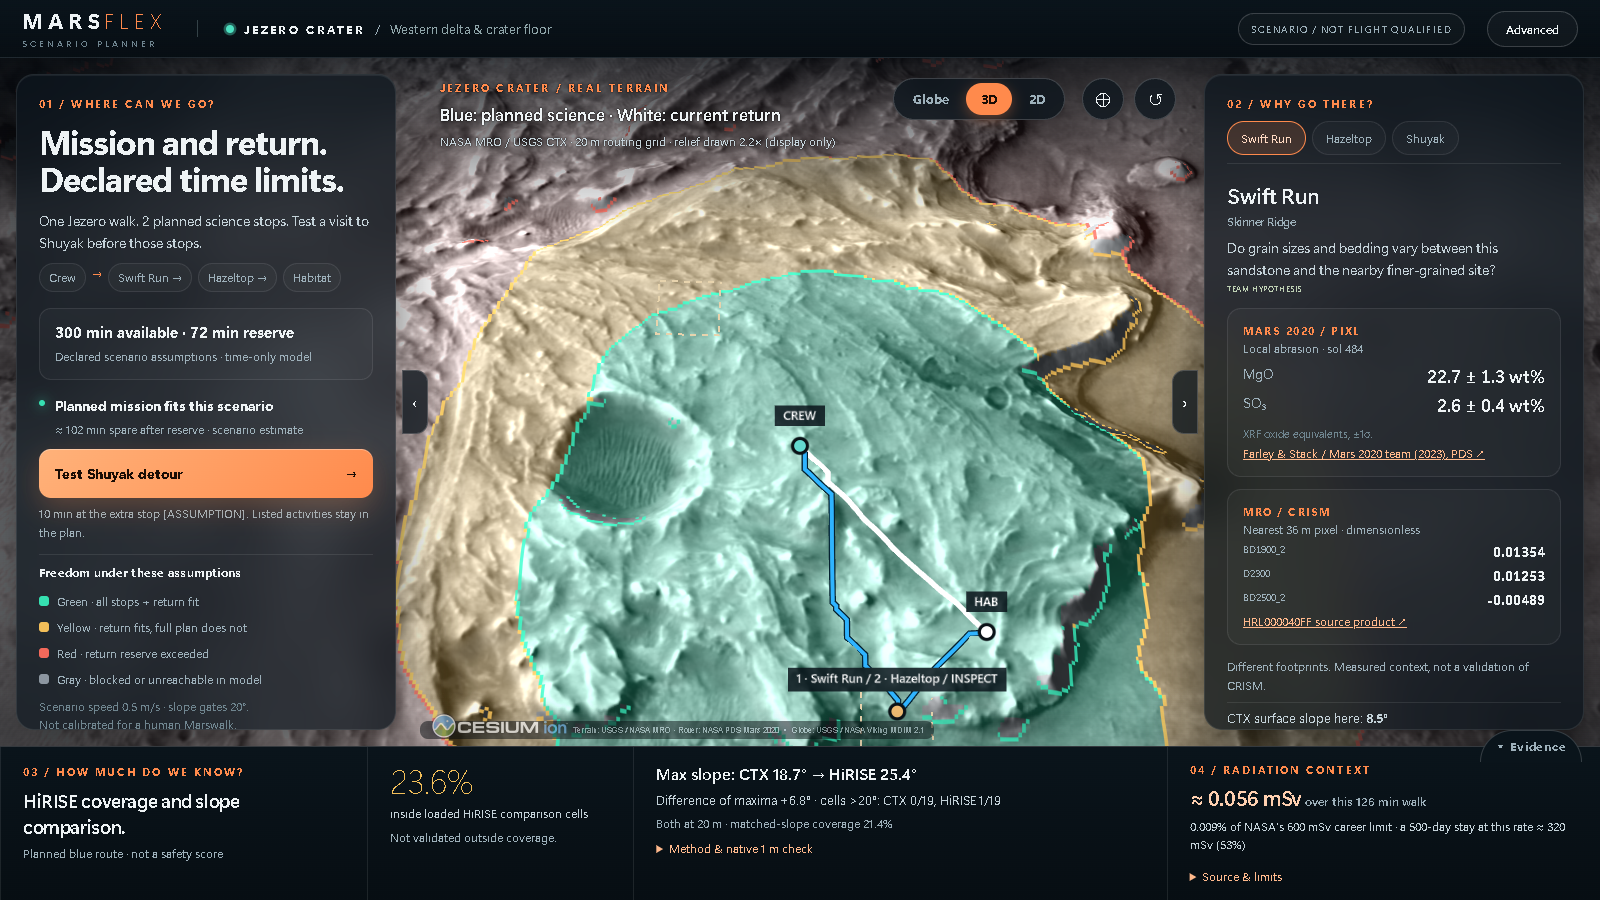
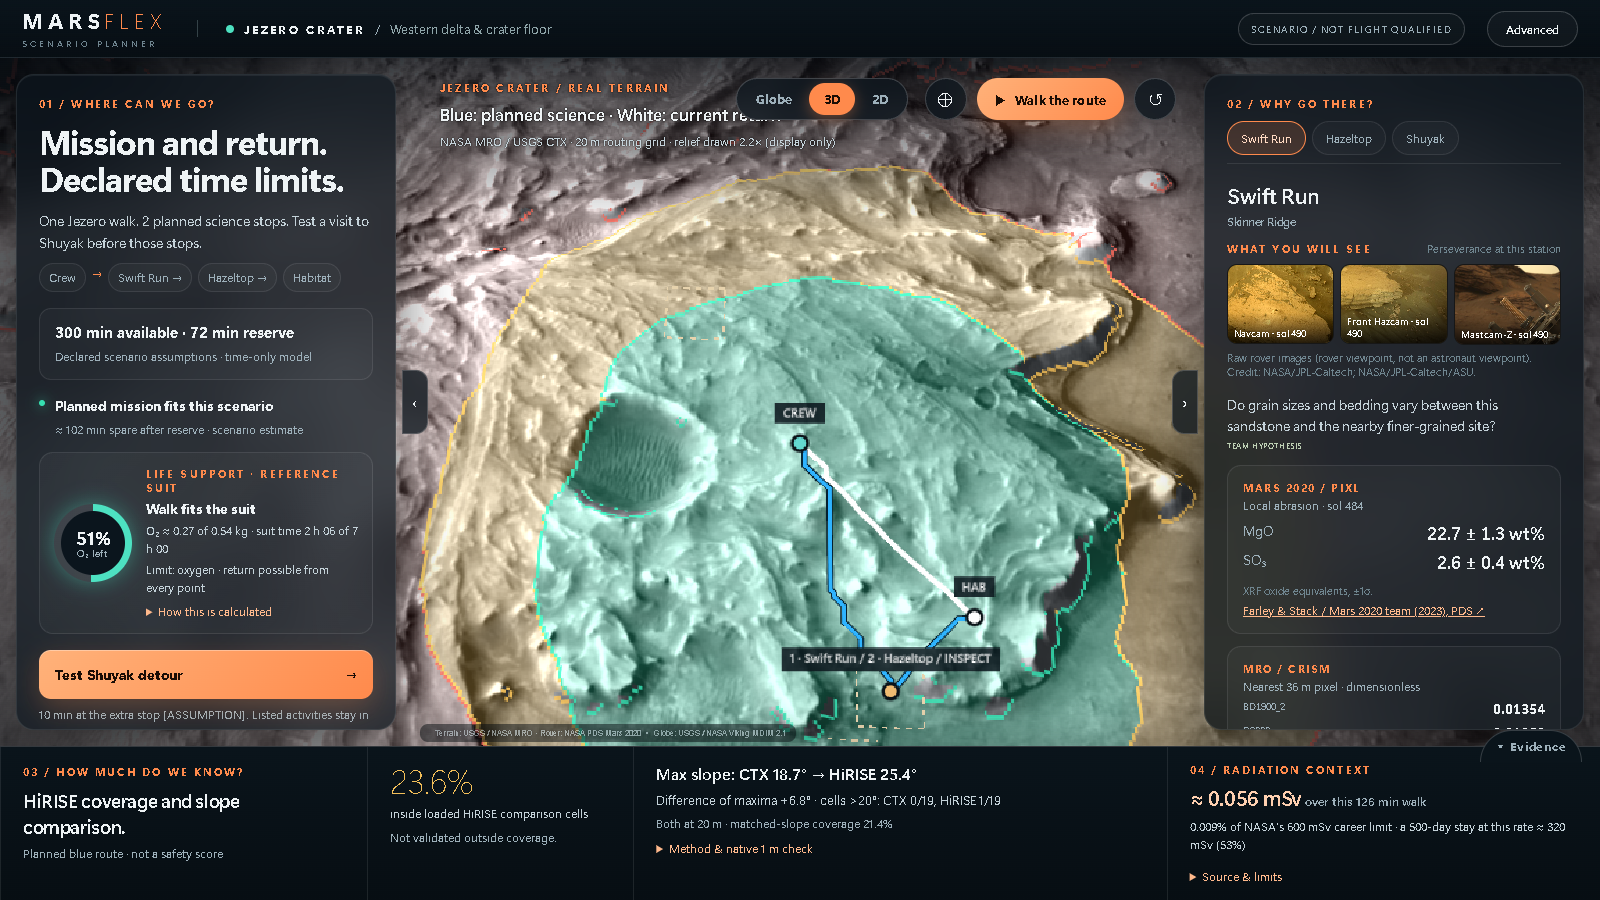
Docs: README features, screenshots and shortcuts; AI disclosure and verification notes updated

diff --git a/docs/submission/AI_ASSISTANCE.md b/docs/submission/AI_ASSISTANCE.md
@@ -7,7 +7,7 @@
 | Scientific research | AI located official archives, compared source labels, drafted limitations and transcribed PIXL factual tables with source-page checks. | Retrieval and transcription can err. Exact evidence and limitations are retained. |
 | Writing | AI drafted English/Arabic documentation, audits, judge brief, video narration, slides, source registers and handoff. The user gave scientific and presentation corrections. | Narration duration is proposed, not a measured recording. |
 | Images | AI-written code produced data-derived plots, hillshade and renderers. Screenshots capture the application. Orbital imagery and terrain are credited NASA/USGS products. | No generative landscape image was created for this final release. Earlier third-party image-generation involvement: NOT FOUND. |
-| AI coding assistant, final preparation | Claude Code (Anthropic) was used in the last phase before submission, directed by the team, to: reorganise the repository (backend/frontend/docs), remove obsolete files, rewrite the README, rebuild the user interface and 3D views (design layer, Globe view with the Viking mosaic, route replay, performance work), add the radiation-context card, and write independent re-derivation tests and the verification notes. All changes are in the git history and are covered by the automated tests. | The team chose the goals and reviewed the running application; AI output can contain errors, so every claim is backed by a test or a cited source. A Claude critique was also supplied earlier by the user and informed priorities. A completed DeepSeek review exchange: NOT FOUND. |
+| AI coding assistant, final preparation | Claude Code (Anthropic) was used in the last phase before submission, directed by the team, to: reorganise the repository (backend/frontend/docs), remove obsolete files, rewrite the README, rebuild the user interface and 3D views (design layer, Globe view with the Viking mosaic, route replay, performance work), add the radiation-context card, the oxygen and reference-suit endurance model, the Mission Site Advisor, the curated point-of-view rover images, the motion layer, and write independent re-derivation tests and the verification notes. Every published value used was looked up and cited; values that could not be verified (for example EMU battery and cooling-water capacity, and the Minetti 2002 coefficients) were left out instead of guessed. All changes are in the git history and are covered by the automated tests. | The team chose the goals and reviewed the running application; AI output can contain errors, so every claim is backed by a test or a cited source. A Claude critique was also supplied earlier by the user and informed priorities. A completed DeepSeek review exchange: NOT FOUND. |
 | Hosting | Replit was discussed as a possible execution environment. | A tested or deployed Replit release: NOT FOUND. |
 
 An LLM does not choose the computed route, color classification, or safety threshold. The deterministic implementation uses declared scenario parameters. This is not operational human-safety certification.

diff --git a/README.md b/README.md
@@ -13,11 +13,15 @@ safety certification. Details: [docs/science/MODEL_ASSUMPTIONS.md](docs/science/
 
 ![Workbench](docs/images/workbench.png)
 
-Start from the whole planet (**Globe**, Viking MDIM 2.1), descend to Jezero (**3D** relief, drawn 2.2× for display only, or a top-down **2D** map), plan a walk, and read the evidence and radiation context for it.
+Start from the whole planet (**Globe**, Viking MDIM 2.1) and descend to Jezero (**3D** relief drawn 2.2× for display only, or a top-down **2D** map). **Find the best site** (terrain, oxygen and time margin, science value), plan the walk, check **oxygen and suit time** against a NASA reference suit with a turn-back point, see **what the rover saw** at each station, and **walk the route** with a suit-style HUD.
 
-| Globe | 2D map |
+Keyboard: `G` globe · `3` / `2` views · `W` walk the route · `F` find a site · `Space` pause · `Esc` close.
+
+| Globe | Mission Site Advisor |
 |---|---|
-| ![Globe](docs/images/globe.png) | ![2D map](docs/images/map-2d.png) |
+| ![Globe](docs/images/globe.png) | ![Mission Site Advisor](docs/images/site-advisor.png) |
+| **Walk the route** (suit HUD) | 2D map |
+| ![Walk the route](docs/images/walk-the-route.png) | ![2D map](docs/images/map-2d.png) |
 
 ## Challenge requirements at a glance
 

diff --git a/docs/science/VERIFICATION.md b/docs/science/VERIFICATION.md
@@ -29,5 +29,6 @@ MarsFlex is a **scenario planner**. This page separates what the test-suite prov
 * **Green does not certify obstacle clearance.** The routing grid is 20 m; boulders and small hazards are unresolved.
 * **Oxygen and suit time are a planning scenario.** Pandolf is an Earth-gravity, unsuited equation; the EMU is an Earth-orbit suit used as a reference; leakage, CO₂, cooling and battery are not modelled.
 * **Radiation is context, not a dose prediction.** One published Gale-crater measurement scaled by time; no suit shielding, no solar particle events.
+* **Published walking model choice.** Pandolf (1977) is used because its form and terrain factors could be verified; the Minetti (2002) gradient polynomial was not adopted because its coefficients could not be verified from an accessible source.
 * **Vertical exaggeration (2.2×) is display only.** Reported elevations, slopes and distances are never scaled.
 * **Sources are not independently validated.** HiRISE and CTX terrain are related products; the comparison is a consistency check, not absolute validation.
